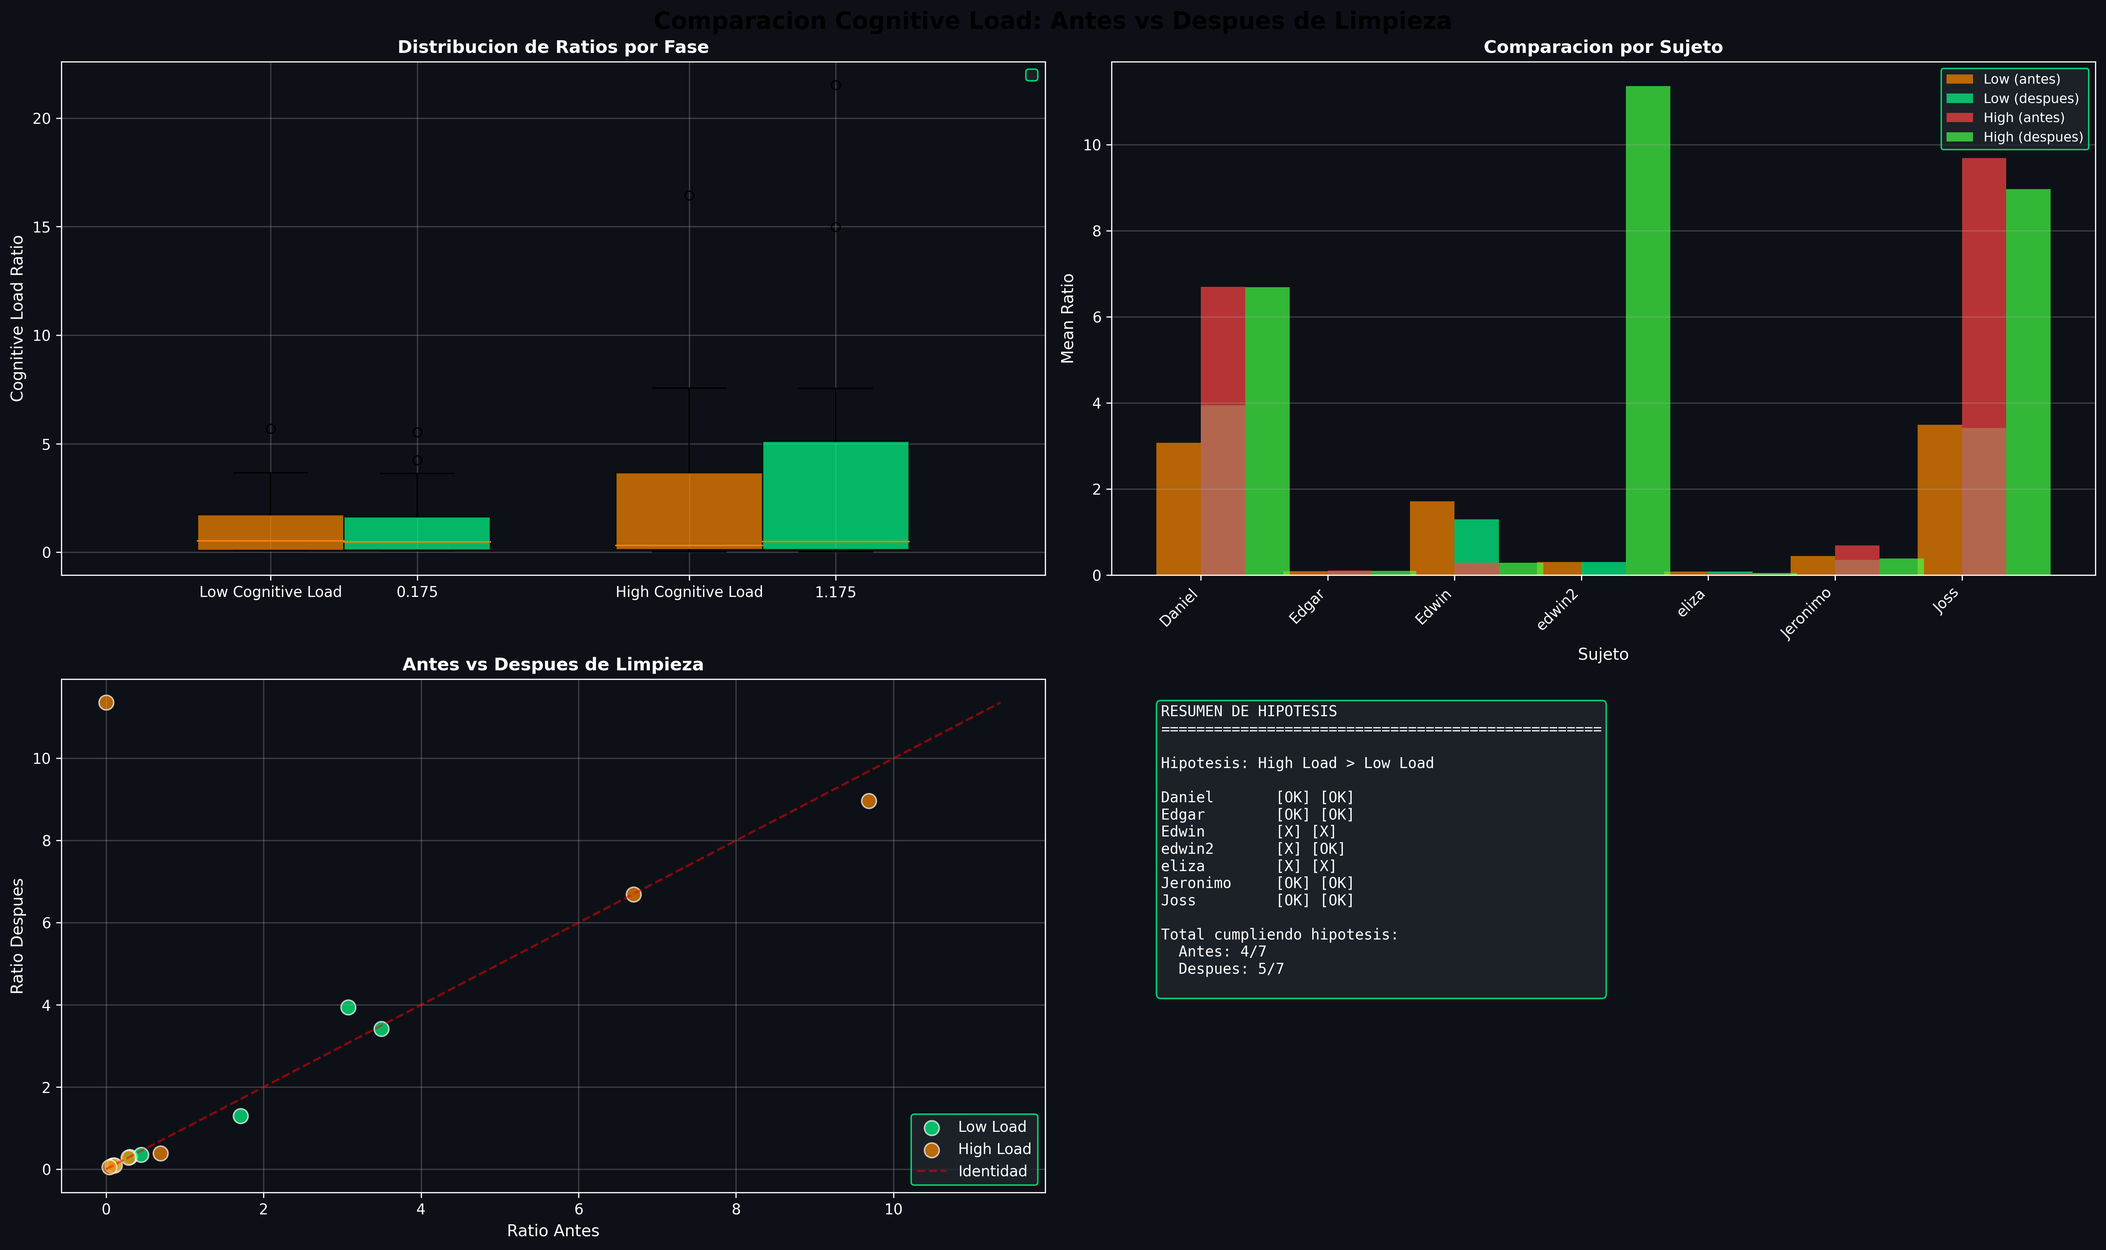
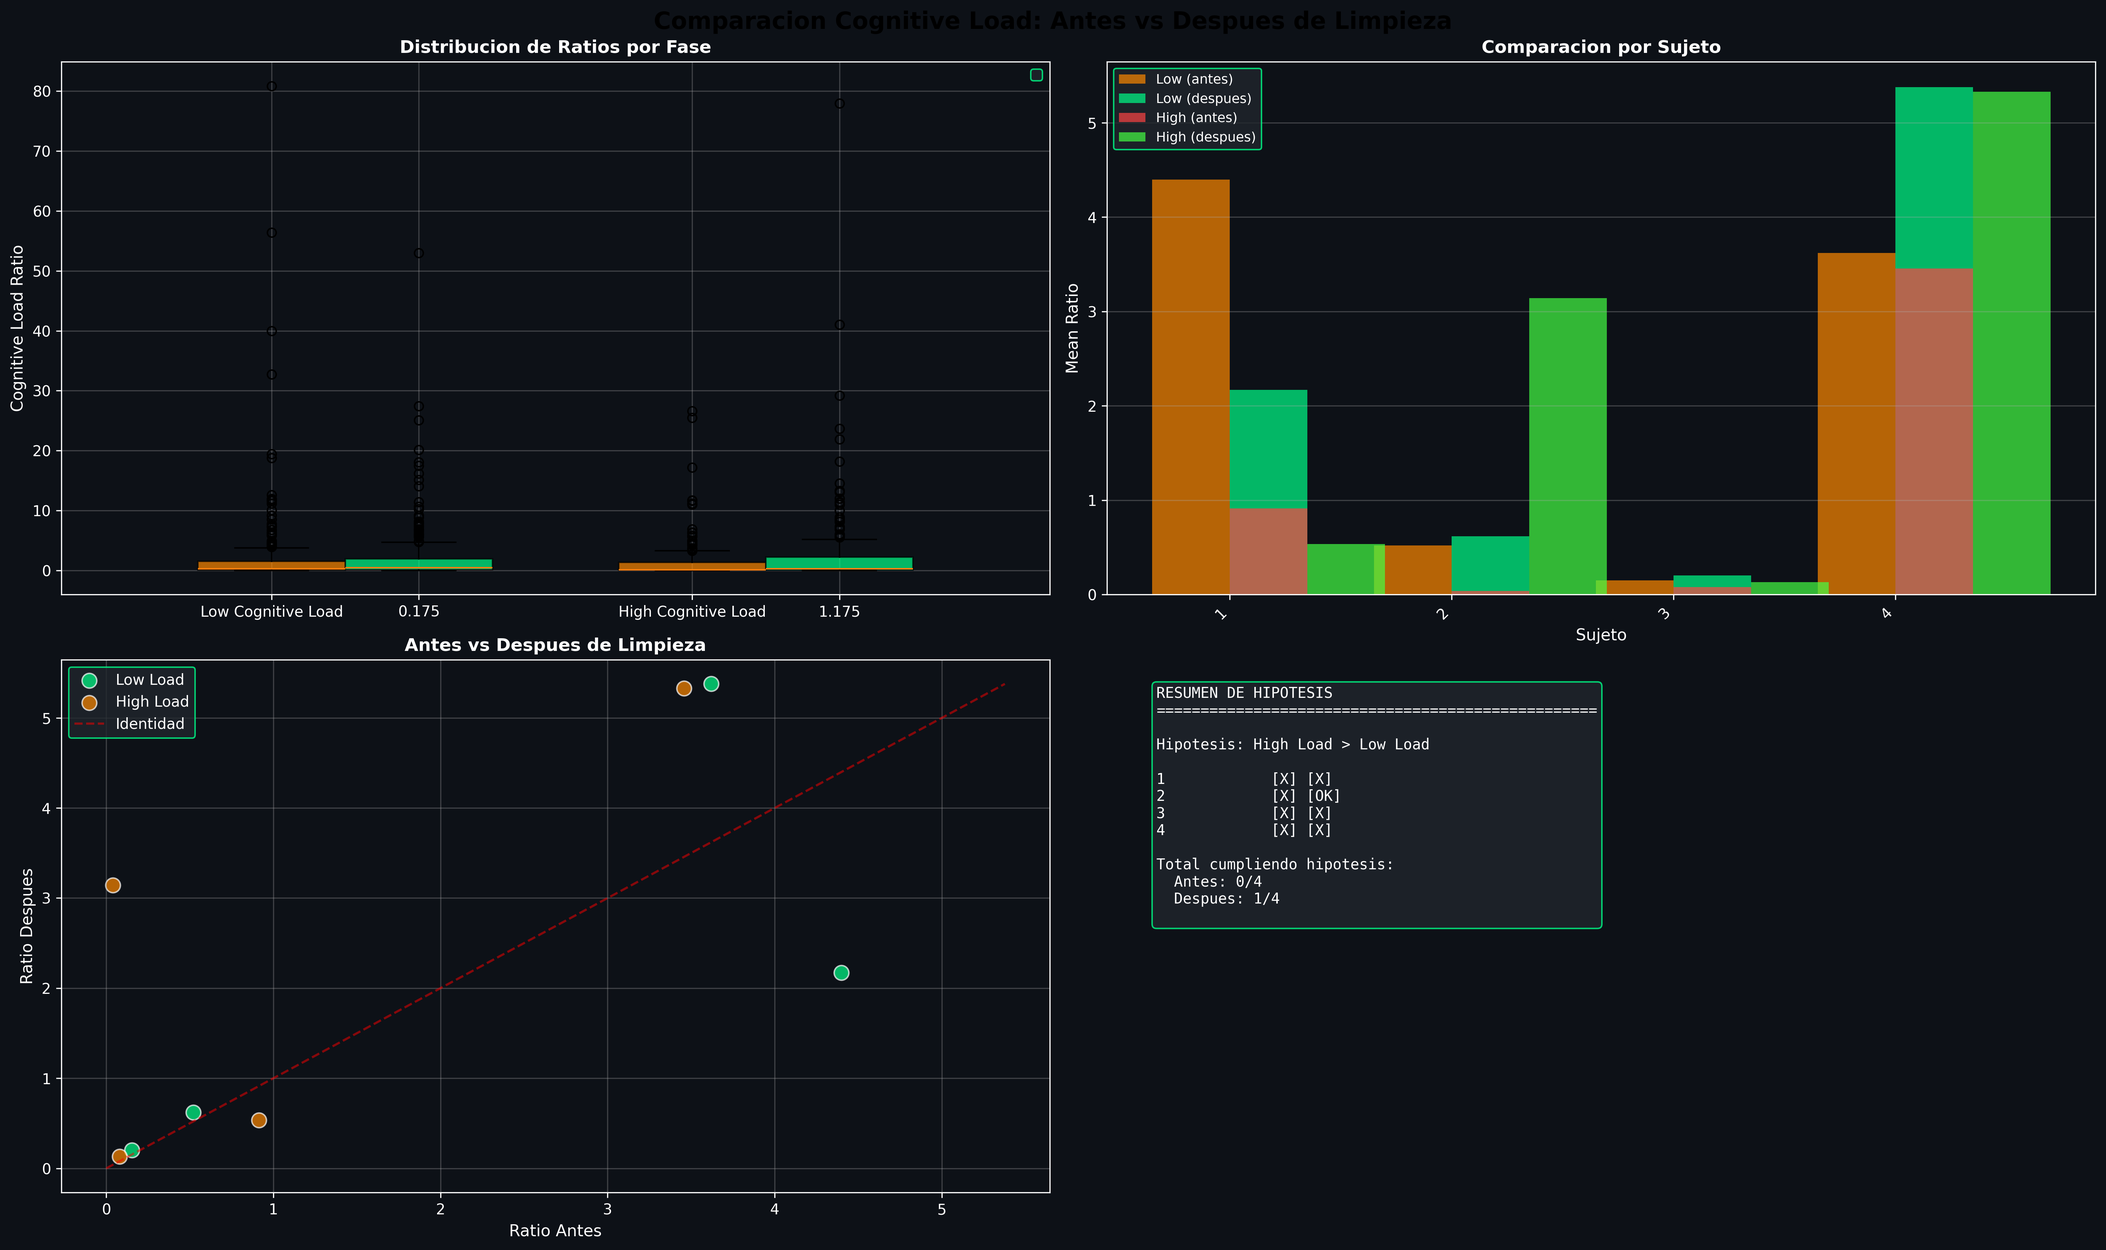
anlaisis de datos

diff --git a/Cognitive-load/analysis/pipeline/step4_cognitive_load_cleaned.py b/Cognitive-load/analysis/pipeline/step4_cognitive_load_cleaned.py
@@ -156,7 +156,7 @@ def calculate_bandpower(signal_data, freq_band, sample_rate):
     idx_band = np.logical_and(freqs >= freq_band[0], freqs <= freq_band[1])
     if np.sum(idx_band) == 0:
         return 0.0
-    bandpower = np.trapz(psd[idx_band], freqs[idx_band])
+    bandpower = np.trapezoid(psd[idx_band], freqs[idx_band])
     return bandpower
 
 def preprocess_signal(channel_data, sample_rate=250, use_default_sr=False):
@@ -282,11 +282,20 @@ def analyze_subject_cleaned(csv_path, output_dir):
         fz_artifacts, fz_n_artifacts = detect_artifacts_combined(fz_signal)
         pz_artifacts, pz_n_artifacts = detect_artifacts_combined(pz_signal)
         
+        # Calcular porcentajes de artefactos
+        fz_artifact_pct = 100 * fz_n_artifacts / len(fz_signal) if len(fz_signal) > 0 else 0
+        pz_artifact_pct = 100 * pz_n_artifacts / len(pz_signal) if len(pz_signal) > 0 else 0
+        
+        # Advertir si hay demasiados artefactos (>50% en cualquier canal)
+        if fz_artifact_pct > 50 or pz_artifact_pct > 50:
+            print(f"    ADVERTENCIA: Demasiados artefactos (Fz: {fz_artifact_pct:.1f}%, Pz: {pz_artifact_pct:.1f}%)")
+            print(f"    Los datos pueden ser poco confiables. Considerar excluir esta fase.")
+        
         fz_cleaned = remove_artifacts_interpolation(fz_signal, fz_artifacts)
         pz_cleaned = remove_artifacts_interpolation(pz_signal, pz_artifacts)
         
-        print(f"    Artefactos Fz: {fz_n_artifacts} ({100*fz_n_artifacts/len(fz_signal):.1f}%)")
-        print(f"    Artefactos Pz: {pz_n_artifacts} ({100*pz_n_artifacts/len(pz_signal):.1f}%)")
+        print(f"    Artefactos Fz: {fz_n_artifacts} ({fz_artifact_pct:.1f}%)")
+        print(f"    Artefactos Pz: {pz_n_artifacts} ({pz_artifact_pct:.1f}%)")
         
         # Calcular cognitive load ANTES de limpiar
         ratios_before, theta_before, alpha_before = calculate_cognitive_load_by_phase(
@@ -330,6 +339,109 @@ def analyze_subject_cleaned(csv_path, output_dir):
         print(f"    Ratio medio despues: {mean_ratio_after:.3f}")
     
     return results
+
+
+def normalize_by_baseline(all_results):
+    """
+    Normaliza los ratios de cada sujeto usando su baseline como referencia.
+    
+    Método: ratio_normalizado = ratio_fase / ratio_baseline
+    Esto hace que el baseline = 1.0 para todos los sujetos.
+    
+    Returns:
+        Lista de resultados con ratios normalizados agregados
+    """
+    normalized_results = []
+    
+    for result in all_results:
+        normalized_result = result.copy()
+        normalized_result['phases_normalized'] = {}
+        
+        # Obtener ratio de baseline (preferir baseline_eyes_closed, sino baseline_eyes_open)
+        baseline_ratio = None
+        if 'baseline_eyes_closed' in result['phases']:
+            baseline_ratio = result['phases']['baseline_eyes_closed']['mean_ratio_after']
+        elif 'baseline_eyes_open' in result['phases']:
+            baseline_ratio = result['phases']['baseline_eyes_open']['mean_ratio_after']
+        
+        if baseline_ratio is None or baseline_ratio == 0 or not np.isfinite(baseline_ratio):
+            # Si no hay baseline válido, usar promedio de ambos baselines
+            baseline_open = result['phases'].get('baseline_eyes_open', {}).get('mean_ratio_after', None)
+            baseline_closed = result['phases'].get('baseline_eyes_closed', {}).get('mean_ratio_after', None)
+            baselines = [b for b in [baseline_open, baseline_closed] if b is not None and np.isfinite(b) and b > 0]
+            if baselines:
+                baseline_ratio = np.mean(baselines)
+            else:
+                baseline_ratio = None
+        
+        # Normalizar cada fase
+        for phase, phase_data in result['phases'].items():
+            normalized_phase = phase_data.copy()
+            ratio_after = phase_data['mean_ratio_after']
+            
+            if baseline_ratio is not None and baseline_ratio > 0 and np.isfinite(ratio_after):
+                normalized_ratio = ratio_after / baseline_ratio
+                normalized_phase['normalized_ratio'] = float(normalized_ratio)
+                normalized_phase['baseline_reference'] = float(baseline_ratio)
+            else:
+                normalized_phase['normalized_ratio'] = np.nan
+                normalized_phase['baseline_reference'] = float(baseline_ratio) if baseline_ratio is not None else np.nan
+            
+            normalized_result['phases_normalized'][phase] = normalized_phase
+        
+        normalized_results.append(normalized_result)
+    
+    return normalized_results
+
+
+def calculate_relative_change_from_baseline(all_results):
+    """
+    Calcula el cambio relativo desde baseline: (ratio_fase - ratio_baseline) / ratio_baseline
+    
+    Returns:
+        Lista de resultados con cambios relativos agregados
+    """
+    relative_results = []
+    
+    for result in all_results:
+        relative_result = result.copy()
+        relative_result['phases_relative'] = {}
+        
+        # Obtener ratio de baseline
+        baseline_ratio = None
+        if 'baseline_eyes_closed' in result['phases']:
+            baseline_ratio = result['phases']['baseline_eyes_closed']['mean_ratio_after']
+        elif 'baseline_eyes_open' in result['phases']:
+            baseline_ratio = result['phases']['baseline_eyes_open']['mean_ratio_after']
+        
+        if baseline_ratio is None or baseline_ratio == 0 or not np.isfinite(baseline_ratio):
+            baseline_open = result['phases'].get('baseline_eyes_open', {}).get('mean_ratio_after', None)
+            baseline_closed = result['phases'].get('baseline_eyes_closed', {}).get('mean_ratio_after', None)
+            baselines = [b for b in [baseline_open, baseline_closed] if b is not None and np.isfinite(b) and b > 0]
+            if baselines:
+                baseline_ratio = np.mean(baselines)
+            else:
+                baseline_ratio = None
+        
+        # Calcular cambio relativo para cada fase
+        for phase, phase_data in result['phases'].items():
+            relative_phase = phase_data.copy()
+            ratio_after = phase_data['mean_ratio_after']
+            
+            if baseline_ratio is not None and baseline_ratio > 0 and np.isfinite(ratio_after):
+                relative_change = (ratio_after - baseline_ratio) / baseline_ratio
+                relative_phase['relative_change'] = float(relative_change)
+                relative_phase['baseline_reference'] = float(baseline_ratio)
+            else:
+                relative_phase['relative_change'] = np.nan
+                relative_phase['baseline_reference'] = float(baseline_ratio) if baseline_ratio is not None else np.nan
+            
+            relative_result['phases_relative'][phase] = relative_phase
+        
+        relative_results.append(relative_result)
+    
+    return relative_results
+
 
 def create_comparison_visualization(all_results, output_dir):
     """Crea visualización comparativa de todos los sujetos."""
@@ -393,7 +505,7 @@ def create_comparison_visualization(all_results, output_dir):
         width = 0.35
         
         bp1 = ax1.boxplot(before_data, positions=positions - width/2, widths=width, 
-                         patch_artist=True, labels=labels)
+                         patch_artist=True, tick_labels=labels)
         bp2 = ax1.boxplot(after_data, positions=positions + width/2, widths=width, 
                          patch_artist=True)
         
@@ -553,6 +665,165 @@ def create_comparison_visualization(all_results, output_dir):
     print(f"Grafico guardado: {output_path}")
     plt.close()
 
+
+def create_all_subjects_cleaned_chart(all_results, output_dir):
+    """
+    Crea graficas con TODOS los sujetos:
+    1. Ratios absolutos (sin normalizar)
+    2. Ratios normalizados por baseline (baseline = 1.0)
+    3. Cambio relativo desde baseline (%)
+    """
+    print(f"\n{'='*80}")
+    print("GENERANDO GRAFICAS: TODOS LOS SUJETOS")
+    print(f"{'='*80}")
+    
+    # Normalizar por baseline
+    normalized_results = normalize_by_baseline(all_results)
+    relative_results = calculate_relative_change_from_baseline(all_results)
+    
+    subjects = [r['subject'] for r in all_results]
+    phases = ['baseline_eyes_open', 'baseline_eyes_closed', 'low_cognitive_load', 'high_cognitive_load']
+    phase_labels = ['Baseline Open', 'Baseline Closed', 'Low Load', 'High Load']
+    
+    # ============================================================
+    # Grafica 1: Ratios absolutos (sin normalizar)
+    # ============================================================
+    data_matrix_abs = {pl: [] for pl in phase_labels}
+    
+    for result in all_results:
+        for phase, pl in zip(phases, phase_labels):
+            if phase in result['phases']:
+                val = result['phases'][phase]['mean_ratio_after']
+                data_matrix_abs[pl].append(val if np.isfinite(val) else np.nan)
+            else:
+                data_matrix_abs[pl].append(np.nan)
+    
+    x = np.arange(len(subjects))
+    width = 0.2
+    
+    fig1, ax1 = plt.subplots(figsize=(16, 8))
+    fig1.suptitle('Cognitive Load Ratio - Todos los Sujetos (Ratios Absolutos)', 
+                 fontsize=14, fontweight='bold', color='white')
+    
+    colors = ['#4fc3f7', '#81c784', '#ffb74d', '#e57373']
+    for i, (pl, color) in enumerate(zip(phase_labels, colors)):
+        offset = (i - 1.5) * width
+        vals = data_matrix_abs[pl]
+        vals_plot = [v if not np.isnan(v) else 0 for v in vals]
+        ax1.bar(x + offset, vals_plot, width, label=pl, color=color, alpha=0.85, edgecolor='white', linewidth=0.5)
+    
+    ax1.set_xlabel('Sujeto', fontsize=12, color='white')
+    ax1.set_ylabel('Cognitive Load Ratio (Theta/Alpha)', fontsize=12, color='white')
+    ax1.set_title('Ratios absolutos - Datos despues de limpieza de artefactos', fontsize=11, color='white')
+    ax1.set_xticks(x)
+    ax1.set_xticklabels(subjects, rotation=45, ha='right', color='white')
+    ax1.legend(facecolor='#21262d', edgecolor='#00ff88', labelcolor='white', fontsize=10)
+    ax1.grid(True, alpha=0.3, axis='y', color='gray')
+    ax1.set_facecolor('#0d1117')
+    ax1.tick_params(colors='white')
+    for spine in ax1.spines.values():
+        spine.set_color('white')
+    fig1.patch.set_facecolor('#0d1117')
+    
+    plt.tight_layout()
+    output_path1 = os.path.join(output_dir, 'cognitive_load_todos_sujetos_absolutos.png')
+    plt.savefig(output_path1, dpi=300, bbox_inches='tight', facecolor='#0d1117')
+    print(f"Grafico 1 guardado: {output_path1}")
+    plt.close()
+    
+    # ============================================================
+    # Grafica 2: Ratios normalizados por baseline (baseline = 1.0)
+    # ============================================================
+    data_matrix_norm = {pl: [] for pl in phase_labels}
+    
+    for result in normalized_results:
+        for phase, pl in zip(phases, phase_labels):
+            if phase in result['phases_normalized']:
+                val = result['phases_normalized'][phase].get('normalized_ratio', np.nan)
+                data_matrix_norm[pl].append(val if np.isfinite(val) else np.nan)
+            else:
+                data_matrix_norm[pl].append(np.nan)
+    
+    fig2, ax2 = plt.subplots(figsize=(16, 8))
+    fig2.suptitle('Cognitive Load Ratio - Normalizado por Baseline (Baseline = 1.0)', 
+                 fontsize=14, fontweight='bold', color='white')
+    
+    for i, (pl, color) in enumerate(zip(phase_labels, colors)):
+        offset = (i - 1.5) * width
+        vals = data_matrix_norm[pl]
+        vals_plot = [v if not np.isnan(v) else 0 for v in vals]
+        ax2.bar(x + offset, vals_plot, width, label=pl, color=color, alpha=0.85, edgecolor='white', linewidth=0.5)
+    
+    # Línea de referencia en y=1.0 (baseline)
+    ax2.axhline(y=1.0, color='yellow', linestyle='--', linewidth=2, alpha=0.7, label='Baseline (referencia)')
+    
+    ax2.set_xlabel('Sujeto', fontsize=12, color='white')
+    ax2.set_ylabel('Ratio Normalizado (Baseline = 1.0)', fontsize=12, color='white')
+    ax2.set_title('Ratios normalizados por baseline de cada sujeto', fontsize=11, color='white')
+    ax2.set_xticks(x)
+    ax2.set_xticklabels(subjects, rotation=45, ha='right', color='white')
+    ax2.legend(facecolor='#21262d', edgecolor='#00ff88', labelcolor='white', fontsize=10)
+    ax2.grid(True, alpha=0.3, axis='y', color='gray')
+    ax2.set_facecolor('#0d1117')
+    ax2.tick_params(colors='white')
+    for spine in ax2.spines.values():
+        spine.set_color('white')
+    fig2.patch.set_facecolor('#0d1117')
+    
+    plt.tight_layout()
+    output_path2 = os.path.join(output_dir, 'cognitive_load_todos_sujetos_normalizados.png')
+    plt.savefig(output_path2, dpi=300, bbox_inches='tight', facecolor='#0d1117')
+    print(f"Grafico 2 guardado: {output_path2}")
+    plt.close()
+    
+    # ============================================================
+    # Grafica 3: Cambio relativo desde baseline (%)
+    # ============================================================
+    data_matrix_rel = {pl: [] for pl in phase_labels}
+    
+    for result in relative_results:
+        for phase, pl in zip(phases, phase_labels):
+            if phase in result['phases_relative']:
+                val = result['phases_relative'][phase].get('relative_change', np.nan)
+                # Convertir a porcentaje
+                val_pct = val * 100 if np.isfinite(val) else np.nan
+                data_matrix_rel[pl].append(val_pct)
+            else:
+                data_matrix_rel[pl].append(np.nan)
+    
+    fig3, ax3 = plt.subplots(figsize=(16, 8))
+    fig3.suptitle('Cambio Relativo desde Baseline (%)', 
+                 fontsize=14, fontweight='bold', color='white')
+    
+    for i, (pl, color) in enumerate(zip(phase_labels, colors)):
+        offset = (i - 1.5) * width
+        vals = data_matrix_rel[pl]
+        vals_plot = [v if not np.isnan(v) else 0 for v in vals]
+        ax3.bar(x + offset, vals_plot, width, label=pl, color=color, alpha=0.85, edgecolor='white', linewidth=0.5)
+    
+    # Línea de referencia en y=0 (sin cambio)
+    ax3.axhline(y=0, color='yellow', linestyle='--', linewidth=2, alpha=0.7, label='Sin cambio')
+    
+    ax3.set_xlabel('Sujeto', fontsize=12, color='white')
+    ax3.set_ylabel('Cambio Relativo (%)', fontsize=12, color='white')
+    ax3.set_title('Cambio porcentual desde baseline: (ratio_fase - baseline) / baseline * 100', fontsize=11, color='white')
+    ax3.set_xticks(x)
+    ax3.set_xticklabels(subjects, rotation=45, ha='right', color='white')
+    ax3.legend(facecolor='#21262d', edgecolor='#00ff88', labelcolor='white', fontsize=10)
+    ax3.grid(True, alpha=0.3, axis='y', color='gray')
+    ax3.set_facecolor('#0d1117')
+    ax3.tick_params(colors='white')
+    for spine in ax3.spines.values():
+        spine.set_color('white')
+    fig3.patch.set_facecolor('#0d1117')
+    
+    plt.tight_layout()
+    output_path3 = os.path.join(output_dir, 'cognitive_load_todos_sujetos_cambio_relativo.png')
+    plt.savefig(output_path3, dpi=300, bbox_inches='tight', facecolor='#0d1117')
+    print(f"Grafico 3 guardado: {output_path3}")
+    plt.close()
+
+
 def create_final_report(all_results, output_dir):
     """Crea reporte final con ratios limpiados."""
     print(f"\n{'='*80}")
@@ -664,10 +935,22 @@ def main():
     
     print(f"\nEncontrados {len(csv_files)} archivos CSV")
     
+    # Filtrar solo sujetos 1, 2, 3, 4
+    SUBJECTS_TO_INCLUDE = ['1', '2', '3', '4']
+    print(f"\nFILTRO: Solo se analizaran los sujetos: {SUBJECTS_TO_INCLUDE}")
+    
     # Analizar cada sujeto
     all_results = []
     for csv_file in sorted(csv_files):
         try:
+            # Extraer nombre del sujeto del path
+            subject_name = Path(csv_file).parent.name.replace('data_', '')
+            
+            # Filtrar solo sujetos 1, 2, 3, 4
+            if subject_name not in SUBJECTS_TO_INCLUDE:
+                print(f"  Omitiendo sujeto '{subject_name}' (no esta en la lista de sujetos a incluir)")
+                continue
+            
             result = analyze_subject_cleaned(csv_file, OUTPUT_DIR)
             all_results.append(result)
         except Exception as e:
@@ -675,10 +958,40 @@ def main():
             import traceback
             traceback.print_exc()
     
-    # Crear visualización comparativa
+    print(f"\nTotal de sujetos analizados: {len(all_results)}")
+    
+    # Crear visualizaciones
     if all_results:
         create_comparison_visualization(all_results, OUTPUT_DIR)
+        create_all_subjects_cleaned_chart(all_results, OUTPUT_DIR)  # Graficas normalizadas y absolutas
         create_final_report(all_results, OUTPUT_DIR)
+        
+        # Guardar también resultados normalizados
+        normalized_results = normalize_by_baseline(all_results)
+        relative_results = calculate_relative_change_from_baseline(all_results)
+        
+        # Guardar CSV con normalizaciones
+        normalized_summary = []
+        for result in normalized_results:
+            subject = result['subject']
+            for phase in LABELS_OF_INTEREST:
+                if phase in result['phases_normalized']:
+                    phase_data = result['phases_normalized'][phase]
+                    normalized_summary.append({
+                        'subject': subject,
+                        'phase': phase,
+                        'ratio_absoluto': phase_data['mean_ratio_after'],
+                        'ratio_normalizado': phase_data.get('normalized_ratio', np.nan),
+                        'baseline_reference': phase_data.get('baseline_reference', np.nan),
+                        'fz_artifact_pct': phase_data['fz_artifact_pct'],
+                        'pz_artifact_pct': phase_data['pz_artifact_pct']
+                    })
+        
+        if normalized_summary:
+            df_norm = pd.DataFrame(normalized_summary)
+            norm_path = os.path.join(OUTPUT_DIR, 'cognitive_load_normalized_summary.csv')
+            df_norm.to_csv(norm_path, index=False)
+            print(f"\nResumen normalizado guardado: {norm_path}")
     
     print("\n" + "="*80)
     print("ANALISIS COMPLETADO")
